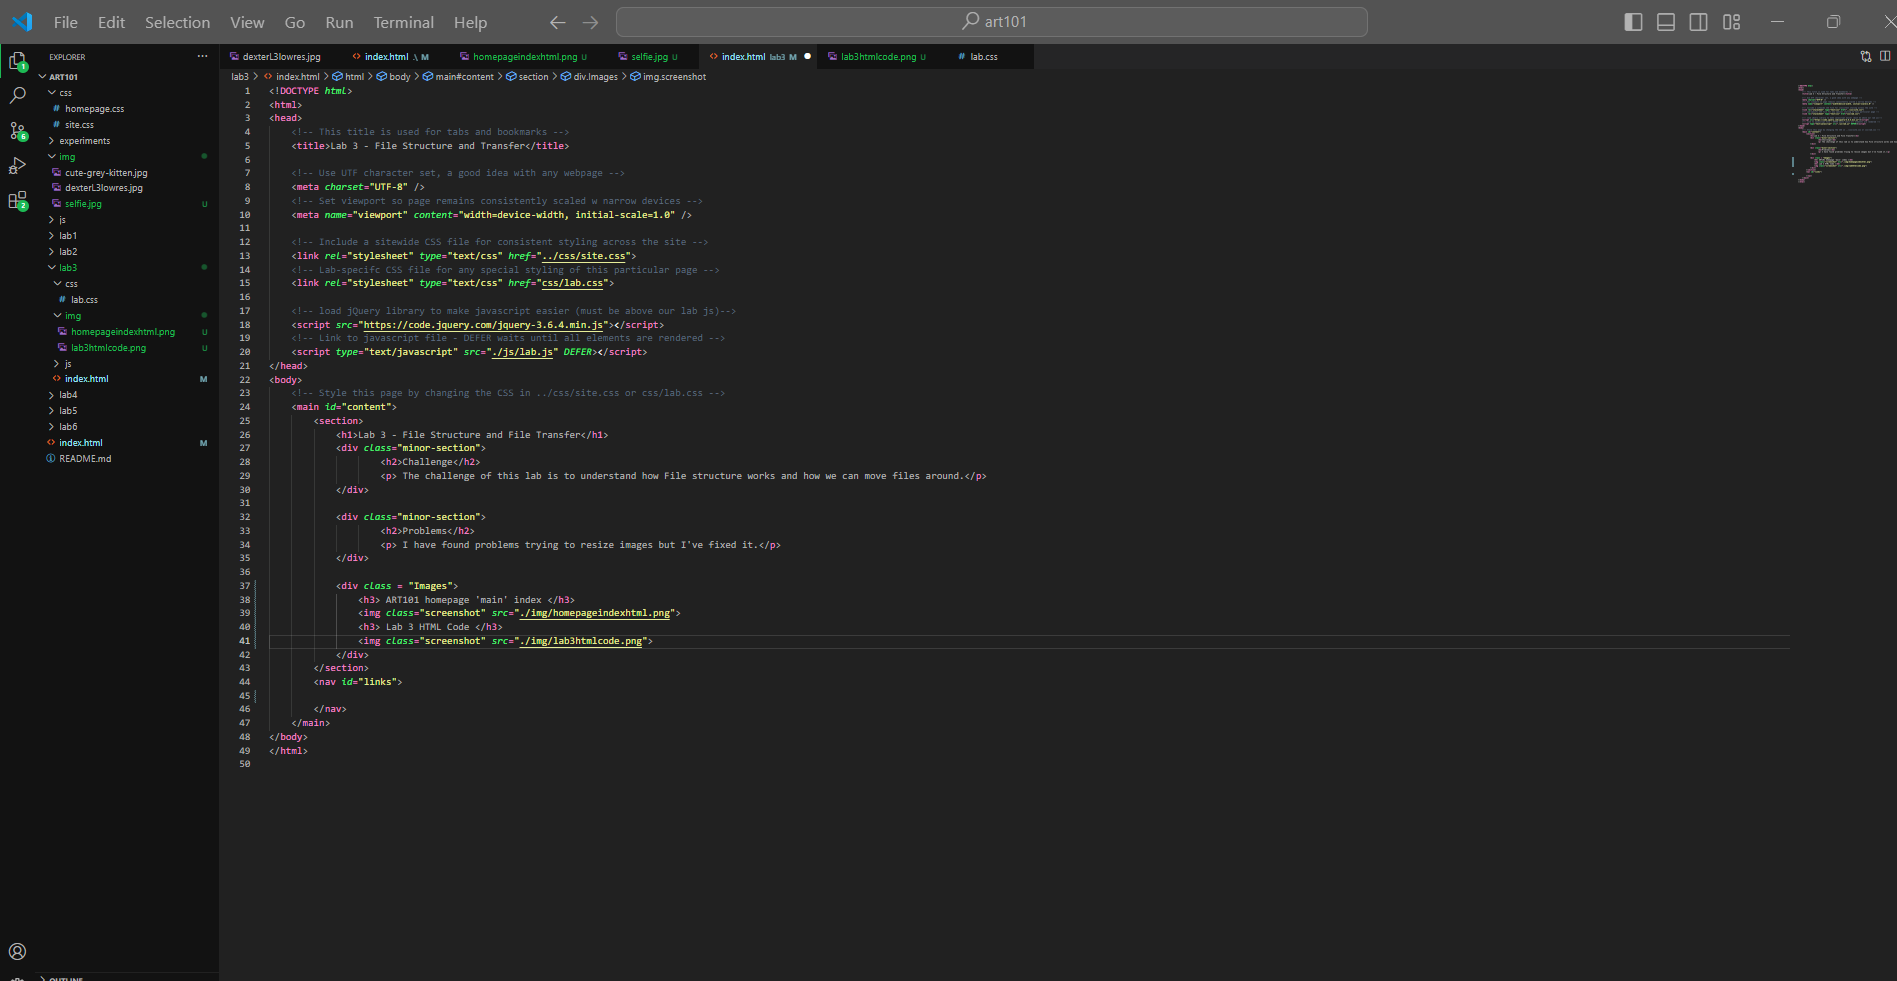
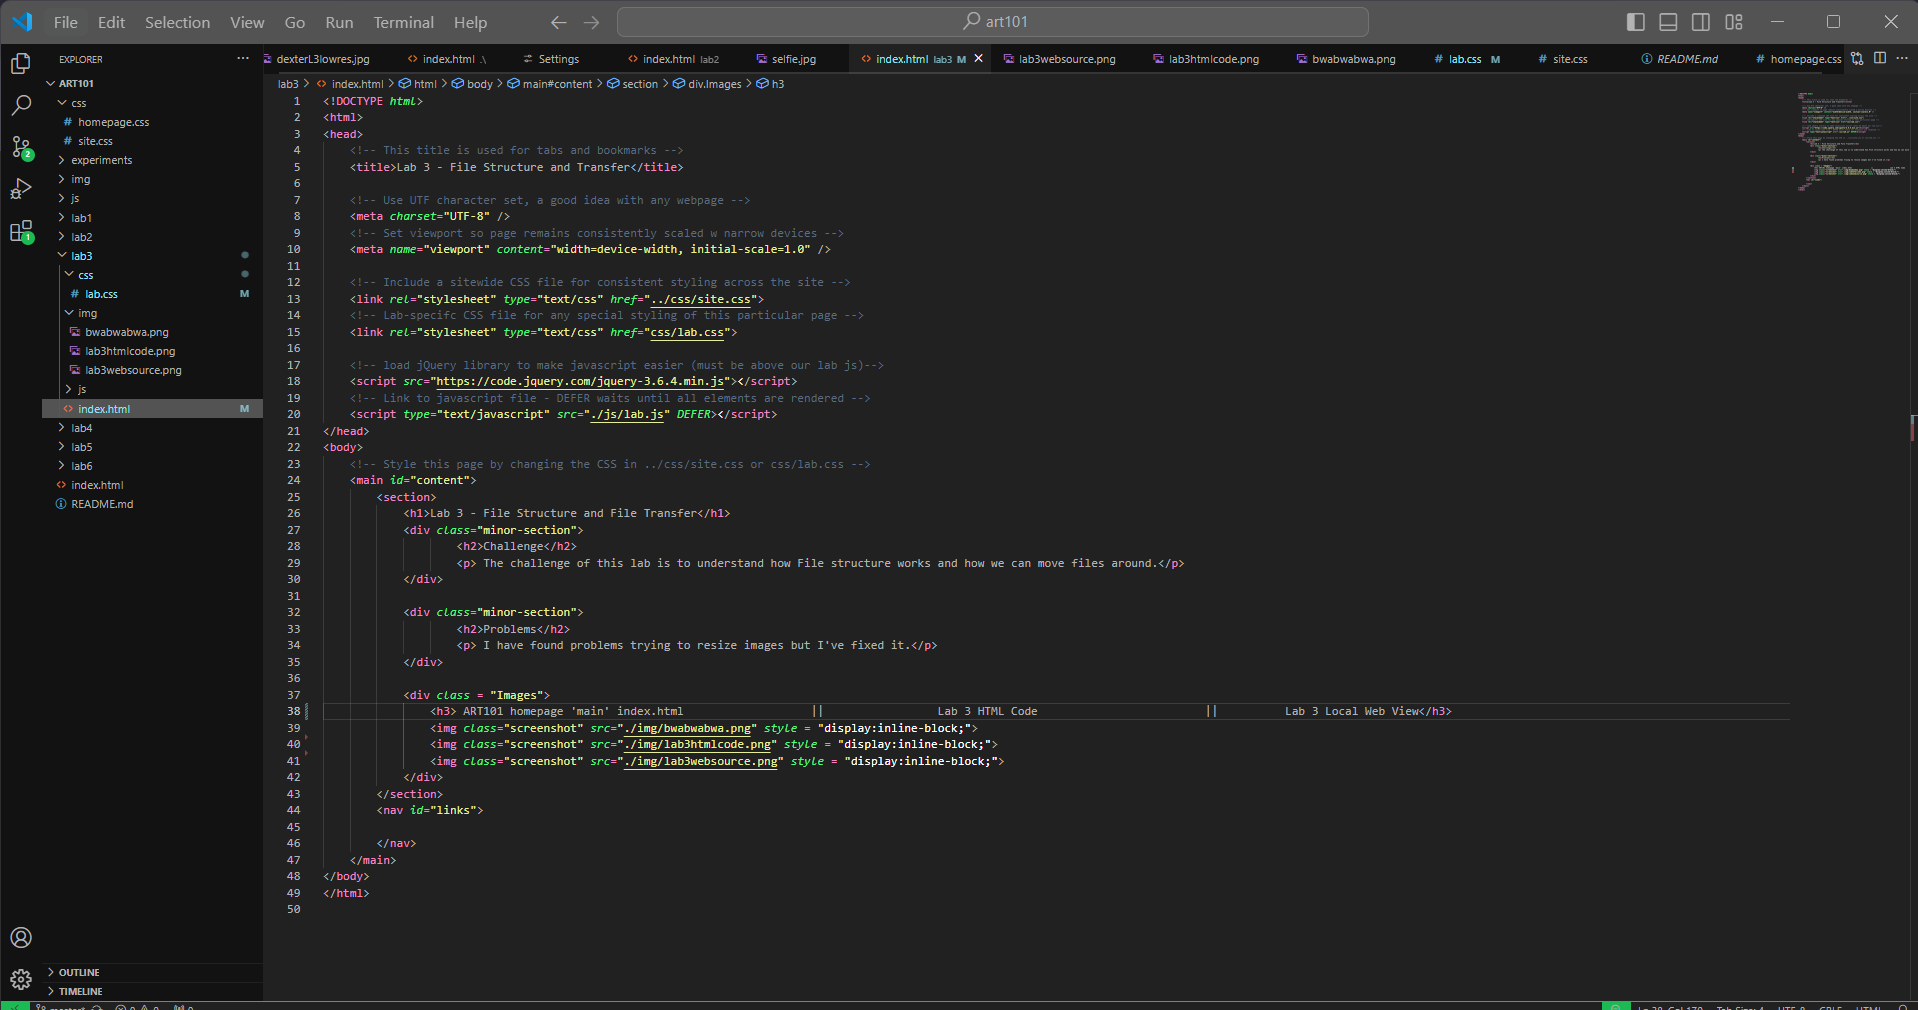
changed lab3
finished lab3

diff --git a/lab3/index.html b/lab3/index.html
@@ -35,11 +35,9 @@
 			</div>
 
 			<div class = "Images"> 
-				<h3> ART101 homepage 'main' index.html</h3>
+				<h3> ART101 homepage 'main' index.html 				     ||				 	Lab 3 HTML Code					    	||			Lab 3 Local Web View</h3>
 				<img class="screenshot" src="./img/bwabwabwa.png" style = "display:inline-block;">
-				<h3> Lab 3 HTML Code</h3>
 				<img class="screenshot" src="./img/lab3htmlcode.png" style = "display:inline-block;">
-				<h3> Lab 3 Local Web View </h3>
 				<img class="screenshot" src="./img/lab3websource.png" style = "display:inline-block;">
 			</div>
 		</section>

diff --git a/lab3/css/lab.css b/lab3/css/lab.css
@@ -9,6 +9,9 @@
   }
 
 .screenshot{
-  max-width: 500px;
-  max-height: 500px;
+  max-width: 400px;
+  max-height: 600px;
+}
+h3{
+ white-space: pre; 
 }
